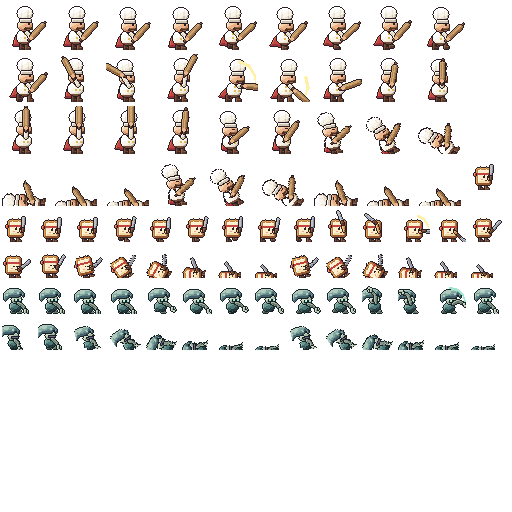
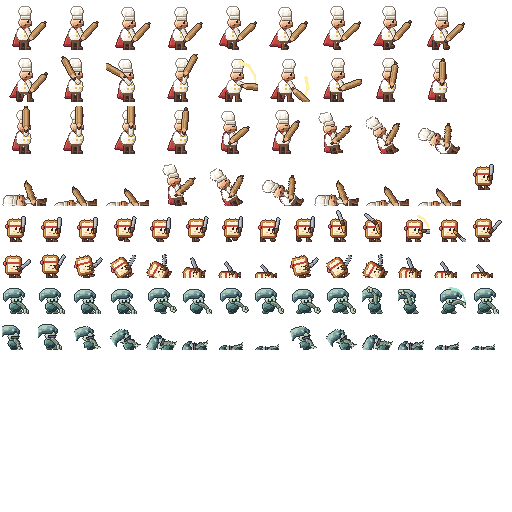
[Feat] 캐릭터를 덜 카툰처럼: 선택적 외곽선, 영웅·제빵사 2.5등신

diff --git a/tools/art/release_slice/chars.py b/tools/art/release_slice/chars.py
@@ -87,49 +87,49 @@ def hero(bob=0, lean=0, legs=((0, 0), (0, 0)), hand=(29, 36), pin=-48.0, cape=0,
     hx = 22 + lean                      # head / shoulders shift further than the hips
     b = bob
     # cape (behind everything)
-    cp = m_poly(W, H, [(hx - 5, 29 + b), (hx - 1, 29 + b), (cx - 2, 44 + b), (cx - 11 - cape, 44 + b - abs(cape) * 0.5), (cx - 9 - cape * 0.5, 36 + b)])
+    cp = m_poly(W, H, [(hx - 5, 26 + b), (hx - 1, 26 + b), (cx - 2, 44 + b), (cx - 11 - cape, 44 + b - abs(cape) * 0.5), (cx - 9 - cape * 0.5, 36 + b)])
     mass(img, cp, "cloth", "flat", INK, base=2)
     put(img, cp & m_rect(W, H, 0, 42 + b, W, 3), RAMP["cloth"][1])
     # legs: back leg darker
     for i, (off, lift) in enumerate(legs):
         lx = 18 + i * 5 + off
-        leg = m_rect(W, H, int(round(lx)), 40 + b, 3, 8 - b - lift)
+        leg = m_rect(W, H, int(round(lx)), 37 + b, 3, 11 - b - lift)
         boot = m_rect(W, H, int(round(lx)), 45 - lift, 5, 3)
         mass(img, leg | boot, "timber", "flat", INK, base=1 if i == 0 else 2)
     # body: white double-breasted jacket, round
-    body = m_ellipse(W, H, cx, 35 + b, 7.5, 7)
+    body = m_ellipse(W, H, cx, 32.5 + b, 7, 8)
     lv = mass(img, body, "white", "round", INK, base=3)
-    for by in (31, 35):
+    for by in (29, 33):
         for bx in (0, 4):
             put(img, m_rect(W, H, int(cx) + bx, by + b, 2, 2), RAMP["wheat"][2])
-    put(img, m_rect(W, H, int(cx) - 7, 40 + b, 15, 2) & body, RAMP["timber"][2])       # belt
+    put(img, m_rect(W, H, int(cx) - 7, 38 + b, 15, 2) & body, RAMP["timber"][2])       # belt
     # neckerchief
-    nk = m_poly(W, H, [(hx - 3, 28 + b), (hx + 5, 28 + b), (hx + 2, 32 + b)])
+    nk = m_poly(W, H, [(hx - 3, 25 + b), (hx + 4, 25 + b), (hx + 1, 28 + b)])
     mass(img, nk, "cloth", "flat", INK, base=3)
     # head
-    head = m_ellipse(W, H, hx + 1, 23.5 + b, 7.0, 5.5)
+    head = m_ellipse(W, H, hx + 1, 20.5 + b, 6.0, 4.8)
     mass(img, head, "skin", "round", INK, base=2)
     if eyes:
-        eye(img, int(hx) + 4, 20 + b)
+        eye(img, int(hx) + 3, 18 + b)
     else:
-        put(img, m_rect(W, H, int(hx) + 3, 22 + b, 3, 1), INK)
-    put(img, m_rect(W, H, int(hx) + 6, 23 + b, 2, 2), RAMP["skin"][1])                 # nose
-    blush(img, int(hx) + 1, 23 + b)                                                       # cheek
-    mo = m_rect(W, H, int(hx) + 1, 25 + b, 8, 2) | m_rect(W, H, int(hx), 26 + b, 3, 2) | m_rect(W, H, int(hx) + 7, 26 + b, 2, 2)
+        put(img, m_rect(W, H, int(hx) + 3, 19 + b, 3, 1), INK)
+    put(img, m_rect(W, H, int(hx) + 5, 20 + b, 2, 2), RAMP["skin"][1])                 # nose
+    blush(img, int(hx) + 1, 21 + b)                                                       # cheek
+    mo = m_rect(W, H, int(hx) + 1, 22 + b, 7, 1) | m_rect(W, H, int(hx), 23 + b, 2, 1) | m_rect(W, H, int(hx) + 6, 23 + b, 2, 1)
     put(img, mo, RAMP["wood"][0])
-    put(img, m_rect(W, H, int(hx) + 2, 25 + b, 5, 1), RAMP["wood"][2])
+    put(img, m_rect(W, H, int(hx) + 2, 22 + b, 4, 1), RAMP["wood"][2])
     # toque: band + one tall puff, leaning with the motion
-    band = m_rect(W, H, int(hx) - 4, 17 + b, 11, 3)
-    puff = m_ellipse(W, H, hx + 1 + tilt, 11.5 + b, 7.5, 6.5) | m_rect(W, H, int(hx) - 3 + int(tilt * 0.5), 13 + b, 9, 5)
+    band = m_rect(W, H, int(hx) - 3, 14 + b, 9, 3)
+    puff = m_ellipse(W, H, hx + 1 + tilt, 9.5 + b, 6.0, 5.0) | m_rect(W, H, int(hx) - 2 + int(tilt * 0.5), 10 + b, 8, 5)
     lvh = mass(img, puff, "white", "round", INK, base=3)
-    step(img, puff & (m_line(W, H, hx - 2 + tilt, 8 + b, hx - 3, 16 + b, 1.2) | m_line(W, H, hx + 4 + tilt, 8 + b, hx + 4, 16 + b, 1.2)), "white", lvh, -1)
+    step(img, puff & (m_line(W, H, hx - 1 + tilt, 6 + b, hx - 2, 13 + b, 1.2) | m_line(W, H, hx + 4 + tilt, 6 + b, hx + 4, 13 + b, 1.2)), "white", lvh, -1)
     mass(img, band, "white", "flat", INK, base=2)
     # arc of the swing (behind the pin, in front of the body)
     if arc:
         am = m_curve(W, H, arc, 3.2, 1.0)
         put(img, am, ARC_ALLY)
     # arm + rolling pin
-    sx, sy = hx + 3, 31 + b
+    sx, sy = hx + 3, 28 + b
     gx, gy = hand[0] + lean, hand[1] + b
     arm = m_line(W, H, sx, sy, gx, gy, 3.4)
     mass(img, arm, "white", "flat", INK, base=2)

diff --git a/tools/art/release_slice/chars2.py b/tools/art/release_slice/chars2.py
@@ -44,31 +44,31 @@ def worker(bob=0, lean=0, legs=((0, 0), (0, 0)), sack=None, tool=None, eyes=True
     img = Img(W, H)
     b = bob
     hx = 14 + lean
-    _legs(img, W, H, 11, 4, 25, b, legs)
-    body = m_ellipse(W, H, 14 + lean * 0.5, 23 + b, 5, 4.5)
+    _legs(img, W, H, 11, 4, 23, b, legs)
+    body = m_ellipse(W, H, 14 + lean * 0.5, 20.5 + b, 4.5, 5)
     mass(img, body, "white", "round", INK, base=3)
-    put(img, m_rect(W, H, 10 + lean, 24 + b, 9, 4) & body, RAMP["cloth"][3])        # apron... in jam red, the bakery colour
-    head = m_ellipse(W, H, hx + 1, 15.5 + b, 4.5, 4)
+    put(img, m_rect(W, H, 10 + lean, 21 + b, 9, 5) & body, RAMP["cloth"][3])        # apron... in jam red, the bakery colour
+    head = m_ellipse(W, H, hx + 1, 13 + b, 3.8, 3.4)
     mass(img, head, "skin", "round", INK, base=2)
     if eyes:
-        eye(img, hx + 2, 14 + b)
+        eye(img, hx + 2, 11 + b)
     else:
-        put(img, m_rect(W, H, hx + 2, 15 + b, 2, 1), INK)
-    blush(img, hx, 17 + b)
-    blush(img, hx + 4, 17 + b, 1)
+        put(img, m_rect(W, H, hx + 2, 12 + b, 2, 1), INK)
+    blush(img, hx, 14 + b)
+    blush(img, hx + 4, 14 + b, 1)
     # short toque (half the captain's), flopped back
-    tq = m_ellipse(W, H, hx - 0.5, 9.5 + b, 4.5, 3.5) | m_rect(W, H, hx - 3, 10 + b, 7, 2)
+    tq = m_ellipse(W, H, hx - 0.5, 7.5 + b, 3.8, 2.8) | m_rect(W, H, hx - 3, 8 + b, 6, 2)
     mass(img, tq, "white", "round", INK, base=3)
     if sack is not None:                                  # flour sack carried over the head
         sx, sy = sack
         s = m_ellipse(W, H, sx, sy + b, 6, 4)
         lv = mass(img, s, "sack", "round", INK, base=3)
         put(img, m_rect(W, H, int(sx) - 1, int(sy) - 1 + b, 3, 2) & s, RAMP["cloth"][2])
-        put(img, m_line(W, H, hx + 2, 21 + b, sx + 2, sy + 3 + b, 2.0), RAMP["white"][2])
+        put(img, m_line(W, H, hx + 2, 18 + b, sx + 2, sy + 3 + b, 2.0), RAMP["white"][2])
     if tool is not None:                                  # wooden peel / mallet for work
         tx, ty, ang = tool
         e = _ang(tx, ty + b, ang, 10)
-        mass(img, m_line(W, H, hx + 3, 21 + b, tx, ty + b, 2.2), "white", "flat", INK, base=2)
+        mass(img, m_line(W, H, hx + 3, 18 + b, tx, ty + b, 2.2), "white", "flat", INK, base=2)
         mass(img, m_line(W, H, tx, ty + b, e[0], e[1], 1.6), "wood", "flat", INK, base=3)
         hd = m_ellipse(W, H, e[0], e[1], 2.8, 2.2)
         mass(img, hd, "wood", "round", INK, base=3)

diff --git a/tools/art/release_slice/lib.py b/tools/art/release_slice/lib.py
@@ -212,11 +212,31 @@ def rim(img: Img, mask, col=INK, only_empty=False):
     img.a[edge] = col
 
 
+SELOUT = True     # sprites: selective outline (see rim_sel); set False for the old uniform near-black contour
+
+
+def rim_sel(img: Img, mask, ramp, ink):
+    """Selective outline: the contour takes the mass's own darkest tone, darkened toward the ink only on the
+    shadow side (below / right). Reads as a painted edge instead of a cartoon line, still separates figures."""
+    r = RAMP[ramp] if isinstance(ramp, str) else ramp
+    edge = grow(mask) & ~mask
+    lit = edge & (shift(mask, 0, -1) | shift(mask, -1, 0)) & ~(shift(mask, 0, 1) | shift(mask, 1, 0))
+    d = np.array(r[0][:3], np.float32)
+    k = np.array(ink[:3], np.float32)
+    dark = tuple(int(v) for v in d * 0.45 + k * 0.55) + (255,)
+    light = tuple(int(v) for v in d * 0.85 + k * 0.15) + (255,)
+    img.a[edge] = dark
+    img.a[lit] = light
+
+
 def mass(img: Img, mask, ramp, form="flat", ink=None, base=2):
     """Paint a mass and (optionally) its contour. Returns the level map for textures."""
     lvl = paint(img, mask, ramp, form, base)
     if ink is not None:
-        rim(img, mask, ink)
+        if SELOUT and (ink == INK or ink == INK_MOULD):
+            rim_sel(img, mask, ramp, ink)
+        else:
+            rim(img, mask, ink)
     return lvl
 
 

diff --git a/docs/art/release_slice/HANDOFF.md b/docs/art/release_slice/HANDOFF.md
@@ -56,3 +56,9 @@
 - **HUD 상단**: `hud_skin.gd`의 `TopSkin` — 자원 패널·기지 체력 막대에 빵 껍질 테두리와 모서리 징, 밀가루가 가득 차면 금빛 맥동, 체력이 깎이면 흰 잔상이 잠시 남았다 줄어듦(대전 게임식), 아군 기지 30% 미만이면 붉은 경고 맥동. HUD 파일은 수정하지 않았다.
 - **캡처(실제 게임)**: `captures/challenge/` — `pairs_r36_r40.png`(왼쪽 기존, 오른쪽 새), `r40_after_640x360.png`. `challenge_sheet_2x.png`는 생성기 시트.
 - **약한 점**: 균사 매듭·빙결 질주자는 기존보다 작게 보인다. 둥지의 핵 둥지 버전은 생성기 시트로만 확인했다: 2026-11-13 05:15 캡처 때 Codex의 미커밋 `src/gameplay/painted_chapter_backdrop.gd`가 컴파일되지 않아 미리보기 배경이 통째로 실패했다(내 파일 아님, 손대지 않음). 잔상·맥동은 움직임이라 정지 캡처로는 확인이 제한적이다.
+
+## 덜 카툰처럼: 비율·외곽선(2026-11-13)
+- **외곽선**: `lib.py`의 `rim_sel()`(선택적 외곽선, `SELOUT = True`). 모든 캐릭터·보스·도전 적의 테두리가 검정 단색 대신 그 부분 몸 색의 가장 어두운 톤을 따르고, 그늘 쪽(아래·오른쪽)만 더 어둡다. 일러스트 배경 위에서 덜 붙여 넣은 듯 보인다. 되돌리려면 `SELOUT = False` 후 재생성.
+- **비율**: 영웅은 머리·모자를 줄이고 몸·다리를 늘려 약 2.5등신, 제빵사도 같은 방향. 식빵병·롤빵병·통식빵·화덕포 등은 빵 자체가 몸인 디자인이라 비율은 그대로 두고 외곽선만 바꿨다. 피벗·프레임 수·타격 프레임 변화 없음.
+- **일러스트 배경**: `PAINTED_BACKGROUND_NOTES.md`(진단·재생성 프롬프트), 재조명본 `assets/art/release_slice/painted_relit/`(`relight.py`).
+- **캡처**: `captures/units/proportions_selout_3x.png`(에셋 시트, 재조명 배경 위), `r15_r05_after_proportions.png`(실제 게임, 픽셀 배경).
